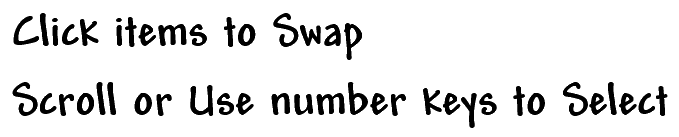
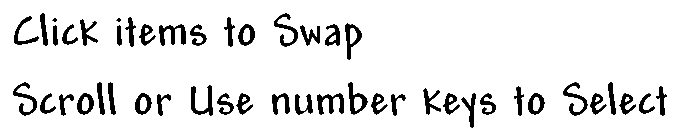
images stuff

diff --git a/Jarvis (JustAnotherRandomVidegameSandbox)/src/gamestates/Settings.java b/Jarvis (JustAnotherRandomVidegameSandbox)/src/gamestates/Settings.java
@@ -43,10 +43,12 @@ public class Settings extends BasicGameState {
 	private Image m1Button;
 	private Image m2Button;
 	private Image volumeImage;
+	private Image instructions;
 	private int mainButtonX, mainButtonY, mainButtonW, mainButtonH;
 	private int m1ButtonX, m1ButtonY, m1ButtonW, m1ButtonH;
 	private int m2ButtonX, m2ButtonY, m2ButtonW, m2ButtonH;
 	private int volumeImageX, volumeImageY, volumeImageW, volumeImageH;
+	private int instructionsX, instructionsY, instructionsW, instructionsH;
 	
 	public Settings(int id) 
 	{
@@ -82,6 +84,11 @@ public class Settings extends BasicGameState {
 		volumeImageY = 2*gc.getHeight()/3;
 		volumeImageW = (int) (0.05208333333*gc.getWidth());
 		volumeImageH = (int) (0.09259259259*gc.getHeight());
+		//679 x 136
+		instructionsX = gc.getWidth()/5;
+		instructionsY = gc.getHeight()/5;
+		instructionsW = (int) (0.35364583333*gc.getWidth());
+		instructionsH = (int) (0.12592592592*gc.getHeight());
 		
 		readyStart = false;
 	}
@@ -208,6 +215,9 @@ public class Settings extends BasicGameState {
 		setImage("volumeDown");
 		m2Button.draw(m2ButtonX - (m2ButtonW / 2), m2ButtonY - (m2ButtonH / 2), m2ButtonW, m2ButtonH);
 		
+		setImage("instructionsText");
+		instructions.draw(instructionsX - (instructionsW / 2), instructionsY - (instructionsH / 2), instructionsW, instructionsH);
+		
 		setImage(volumeMeter.toString());
 		
 		volumeImage.draw(volumeImageX - (volumeImageW / 2), volumeImageY - (volumeImageH / 2), volumeImageW, volumeImageH);
@@ -222,6 +232,7 @@ public class Settings extends BasicGameState {
 			m1Button = ImageManager.getImage(file);
 			m2Button = ImageManager.getImage(file);
 			volumeImage = ImageManager.getImage(file);
+			instructions = ImageManager.getImage(file);
 		}
 		catch(Exception e)		
 		{

diff --git a/Jarvis (JustAnotherRandomVidegameSandbox)/src/gamestates/WorldSelect.java b/Jarvis (JustAnotherRandomVidegameSandbox)/src/gamestates/WorldSelect.java
@@ -37,7 +37,6 @@ public class WorldSelect extends BasicGameState
 	public static int arraySize = 50;
 	public static int fireworkType = 0;
 	
-	//background
 	//image variables
 	private Image mainButton;
 	private Image w1Button;
@@ -266,8 +265,14 @@ public class WorldSelect extends BasicGameState
 		w2Button.draw(w2ButtonX - (w2ButtonW / 2), w2ButtonY - (w2ButtonH / 2), w2ButtonW, w2ButtonH);
 		
 		setImage("cogwheel");
+		s1Button.setCenterOfRotation(s1ButtonW / 2, s1ButtonH / 2);
+		s1Button.rotate(2);
 		s1Button.draw(s1ButtonX - (s1ButtonW / 2), s1ButtonY - (s1ButtonH / 2), s1ButtonW, s1ButtonH);
+		
+		
 		setImage("refresh");
+		newWorldButton.setCenterOfRotation(newWorldButtonW / 2, newWorldButtonH / 2);
+		newWorldButton.rotate(-2);
 		newWorldButton.draw(newWorldButtonX - (newWorldButtonW / 2), newWorldButtonY - (newWorldButtonH / 2), newWorldButtonW, newWorldButtonH);
 		if (createNewWorld) {
 			g.setColor(new Color(100, 255, 100));
